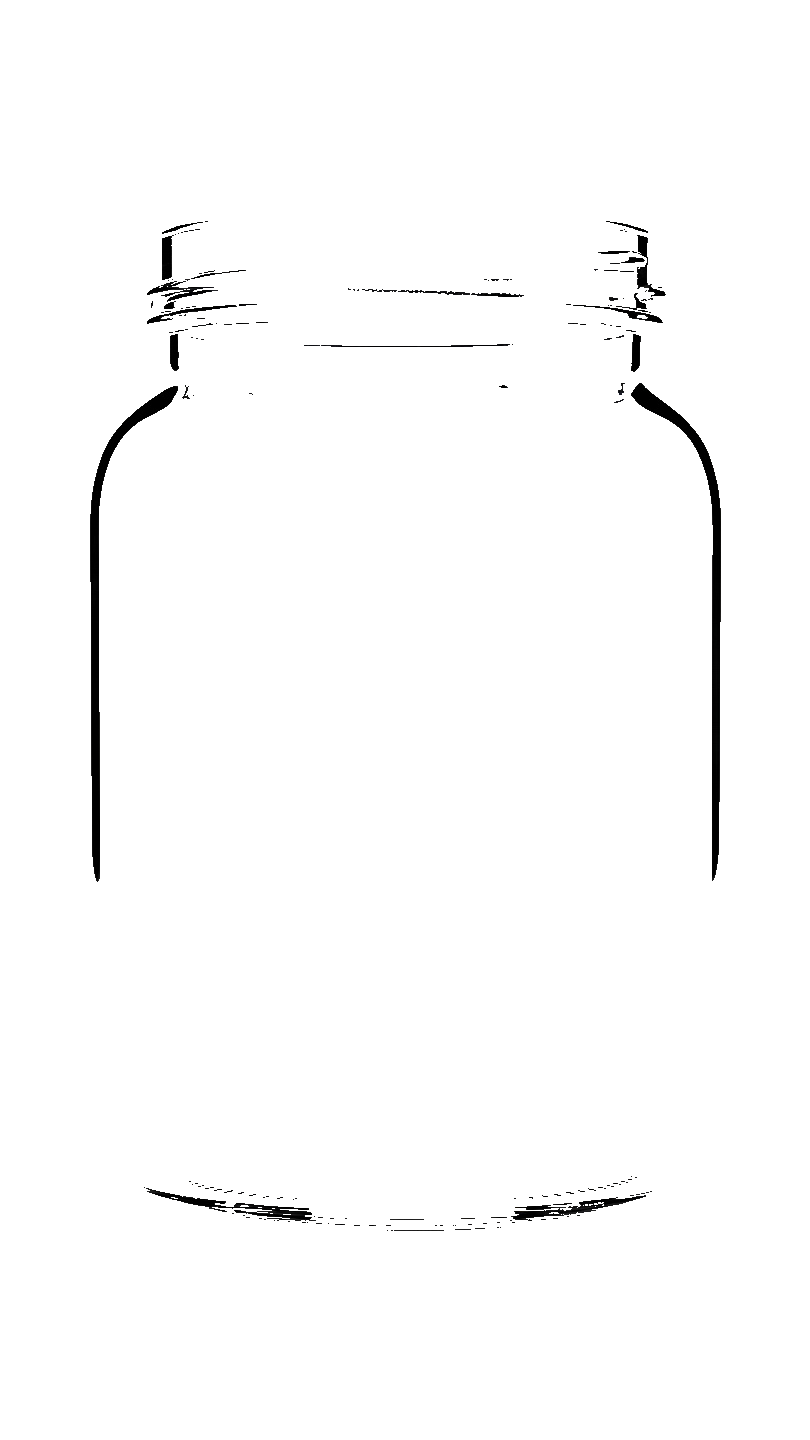
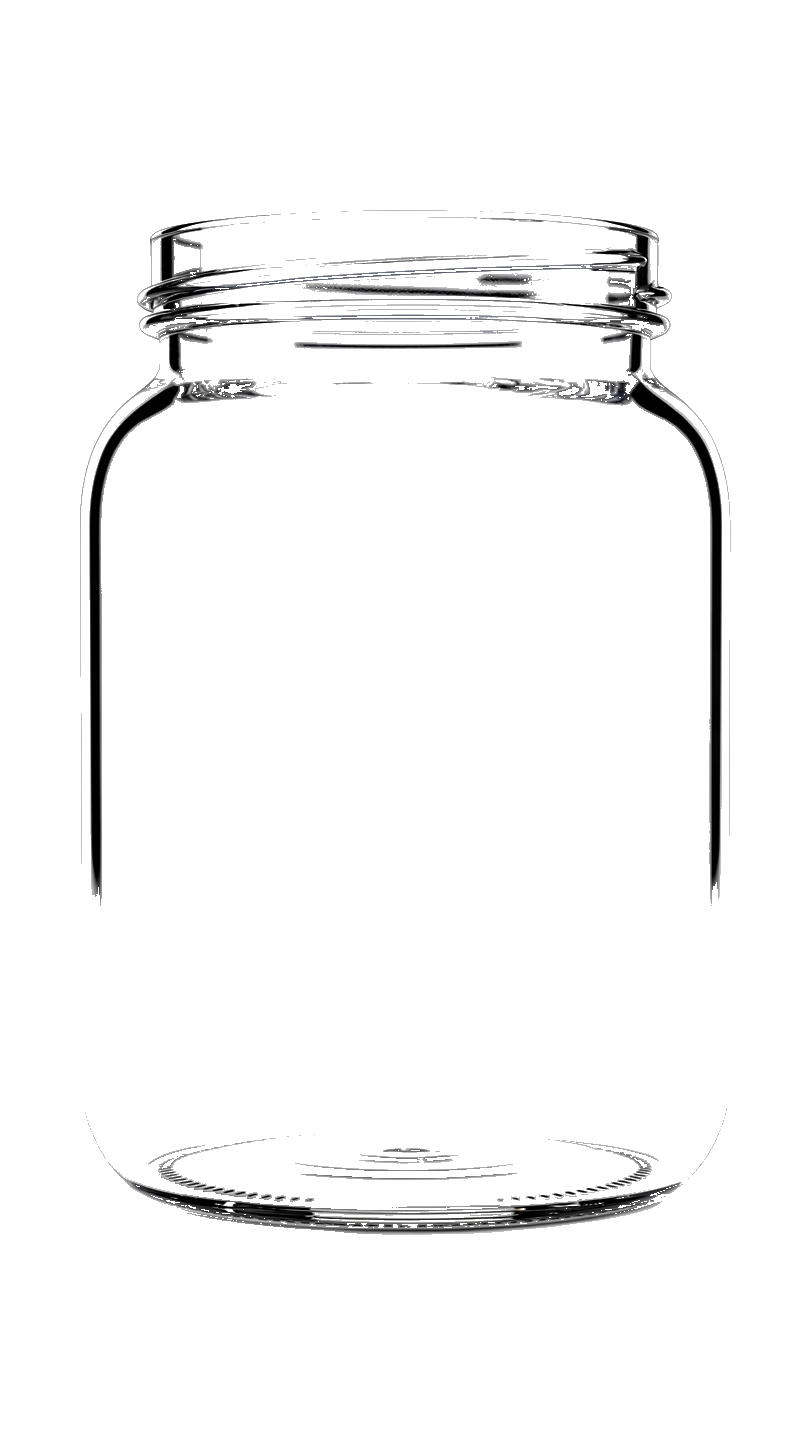
Fix jar outline: edge detection PNG + remove CSS border from jar-glow
- Regenerate jar-glass.png using edge detection (neighborhood contrast)
  algorithm: keeps only pixels at dark/light boundary, giving a complete
  connected white outline tracing the entire jar (sides, top, bottom)
- Remove border/box-shadow from .jar-glow base style (was creating an
  ugly second separate ring over the photo)
- Lower jar-glow z-index to 15 (behind photo) — glow-only effect for themes

diff --git a/server.js b/server.js
@@ -2444,12 +2444,10 @@ function getJarHTML(roomId) {
     bottom: 86px;         /* 600 - 530 = 70 → +16 padding = 86 */
     left: 50%;
     transform: translateX(-50%);
-    z-index: 21;          /* above jar-img so border fills gaps */
+    z-index: 15;          /* behind jar-img — glow only, no border */
     pointer-events: none;
     border-radius: 10px 10px 65px 65px;
     background: transparent;
-    border: 2.5px solid rgba(255,255,255,0.75);
-    box-shadow: 0 0 8px rgba(255,255,255,0.4), 0 0 18px rgba(255,255,255,0.2);
     transition: box-shadow 0.3s;
   }
 